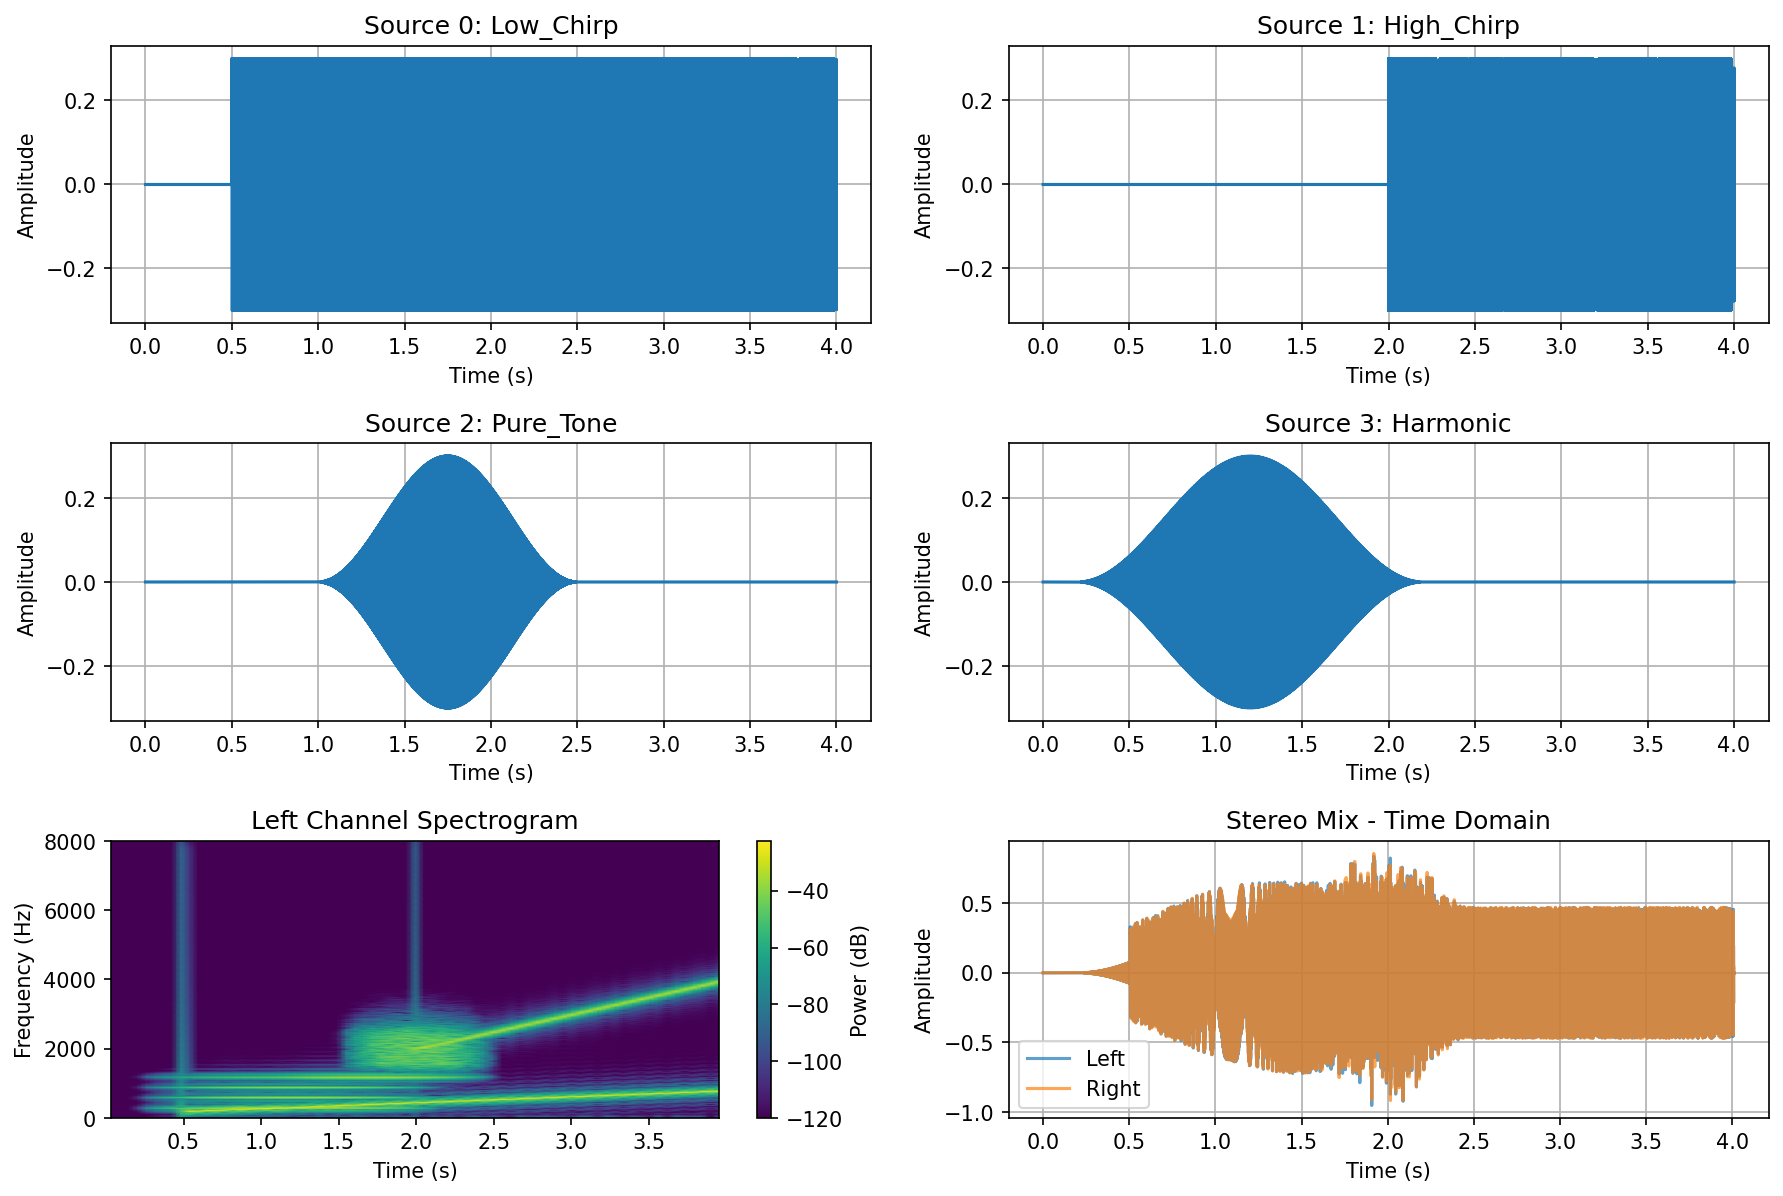
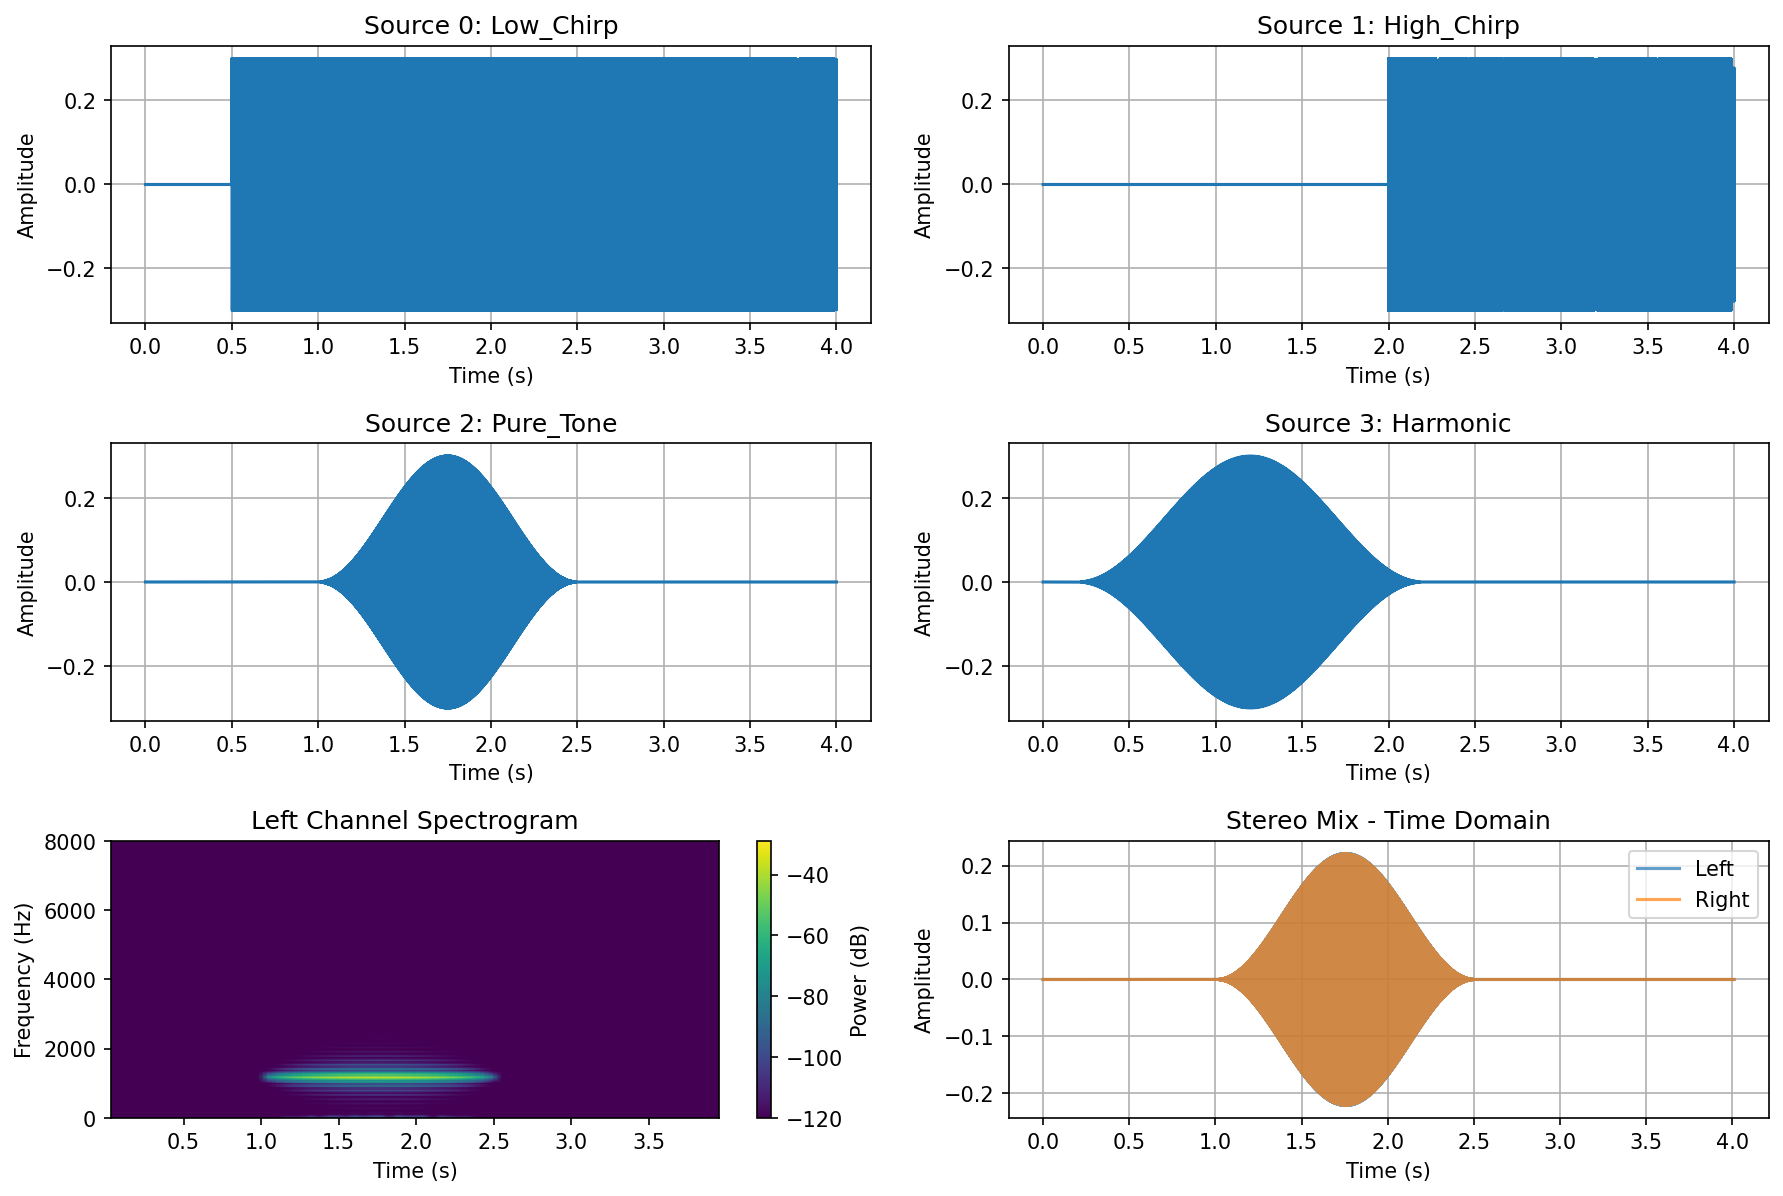
test one signal at a time

diff --git a/generate_test_signals.py b/generate_test_signals.py
@@ -185,8 +185,9 @@ def setup_room_and_simulate(signals, fs=16000, anechoic=True):
 
     # Add sources to room
     for i, (signal_data, pos) in enumerate(zip(signals, source_positions)):
-        room.add_source(pos, signal=signal_data)
-        print(f"Source {i}: position {pos}")
+        if i == 2:
+            room.add_source(pos, signal=signal_data)
+            print(f"Source {i}: position {pos}")
 
     # Simulate acoustics
     room.simulate()

diff --git a/bss.py b/bss.py
@@ -1210,7 +1210,7 @@ if __name__ == "__main__":
 
     fs, x = sp.io.wavfile.read(r"test_signals/stereo_mix.wav")
     x = x.astype(np.float64) / np.iinfo(x.dtype).max
-    duet = Duet(x[:100000], n_sources=5, sample_rate=fs,
+    duet = Duet(x[:100000], n_sources=1, sample_rate=fs,
                 attenuation_max=0.2,
                 delay_max=0.8,  # microphones 2 cm apart = 0.9 samples
                 assignment_mode="ml",
